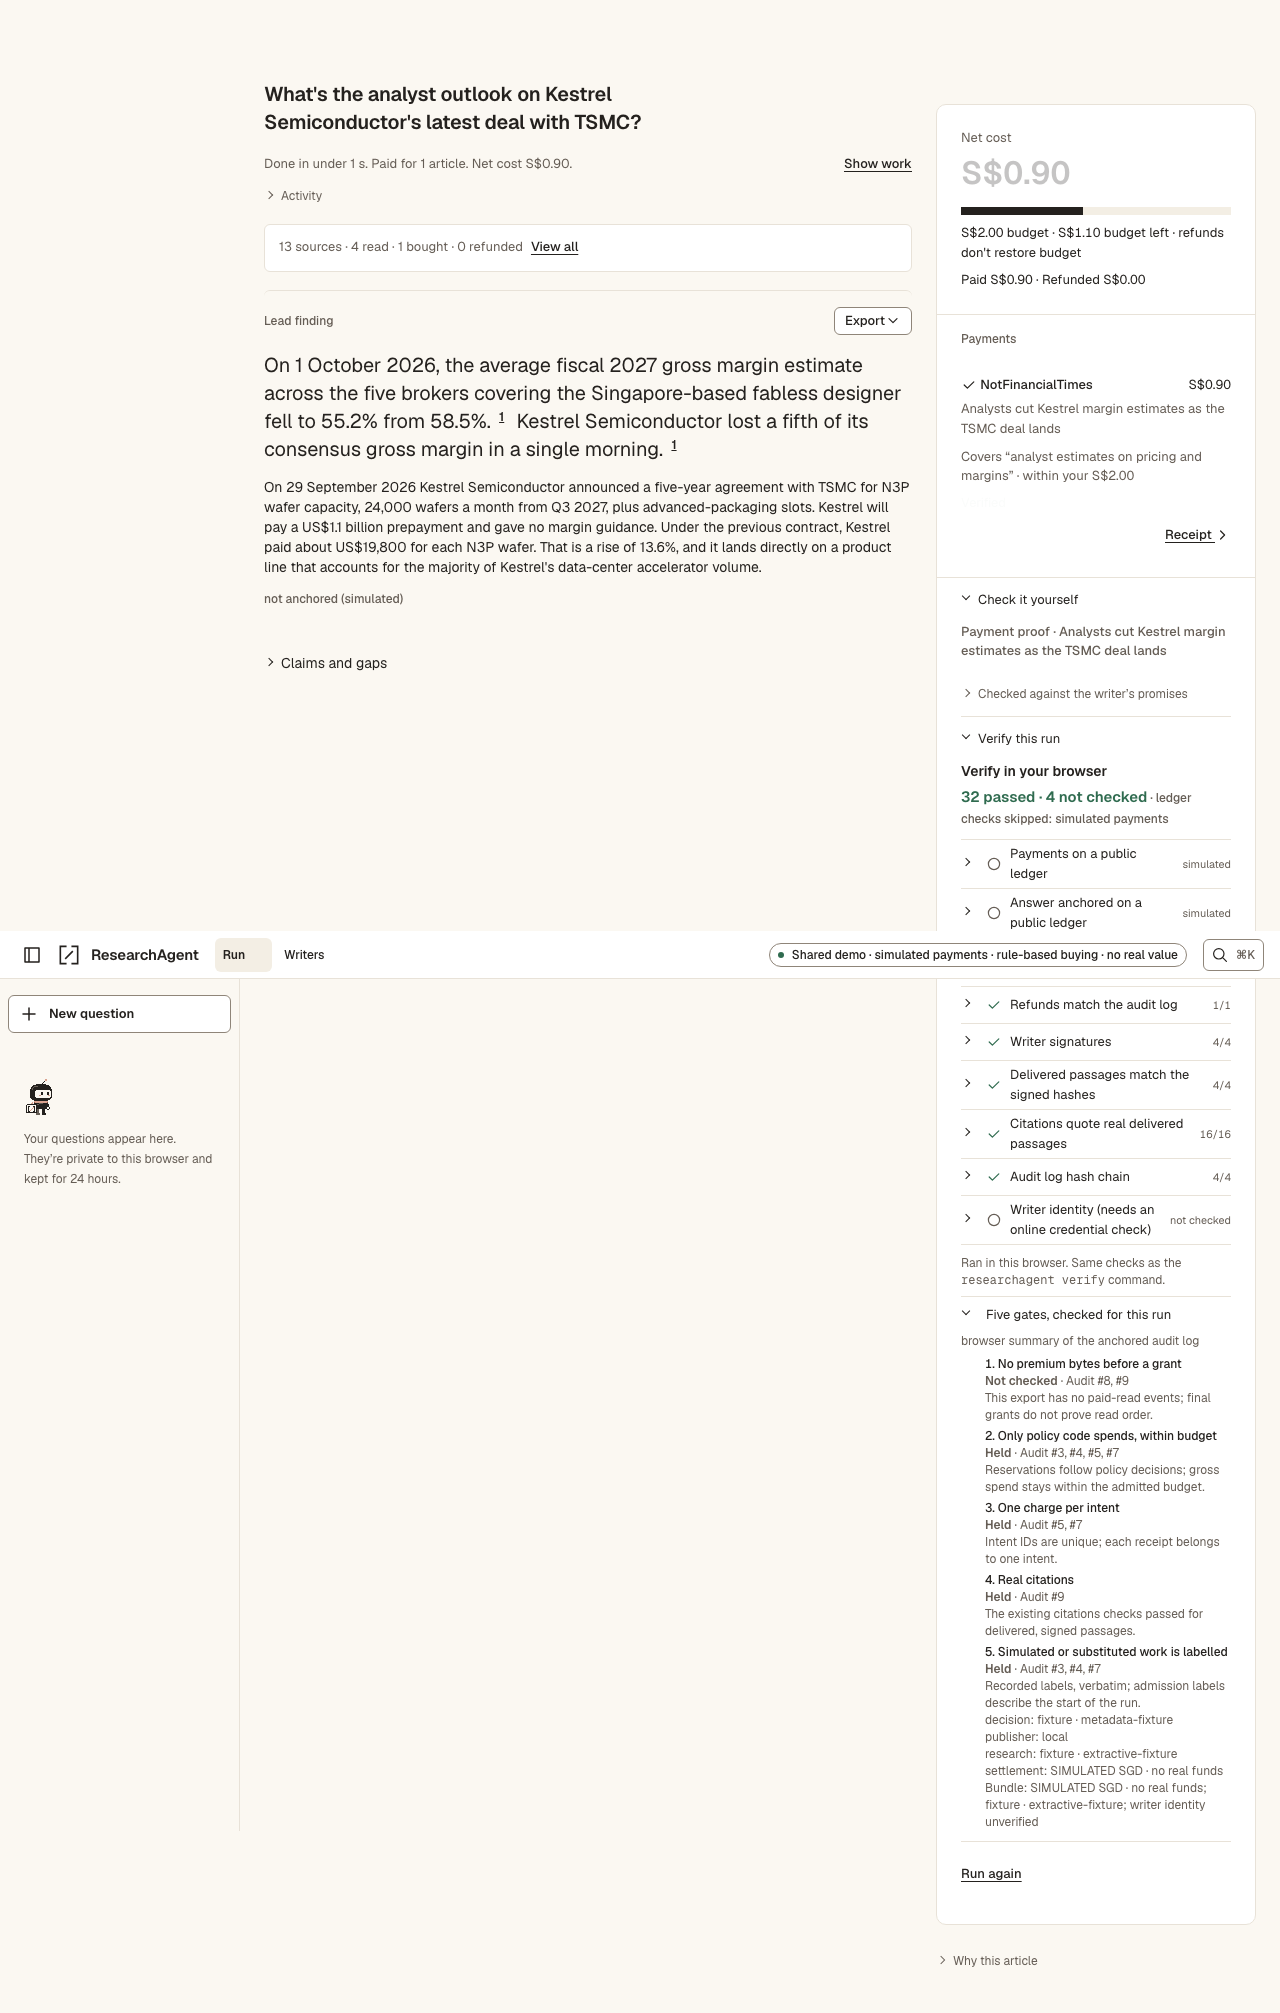
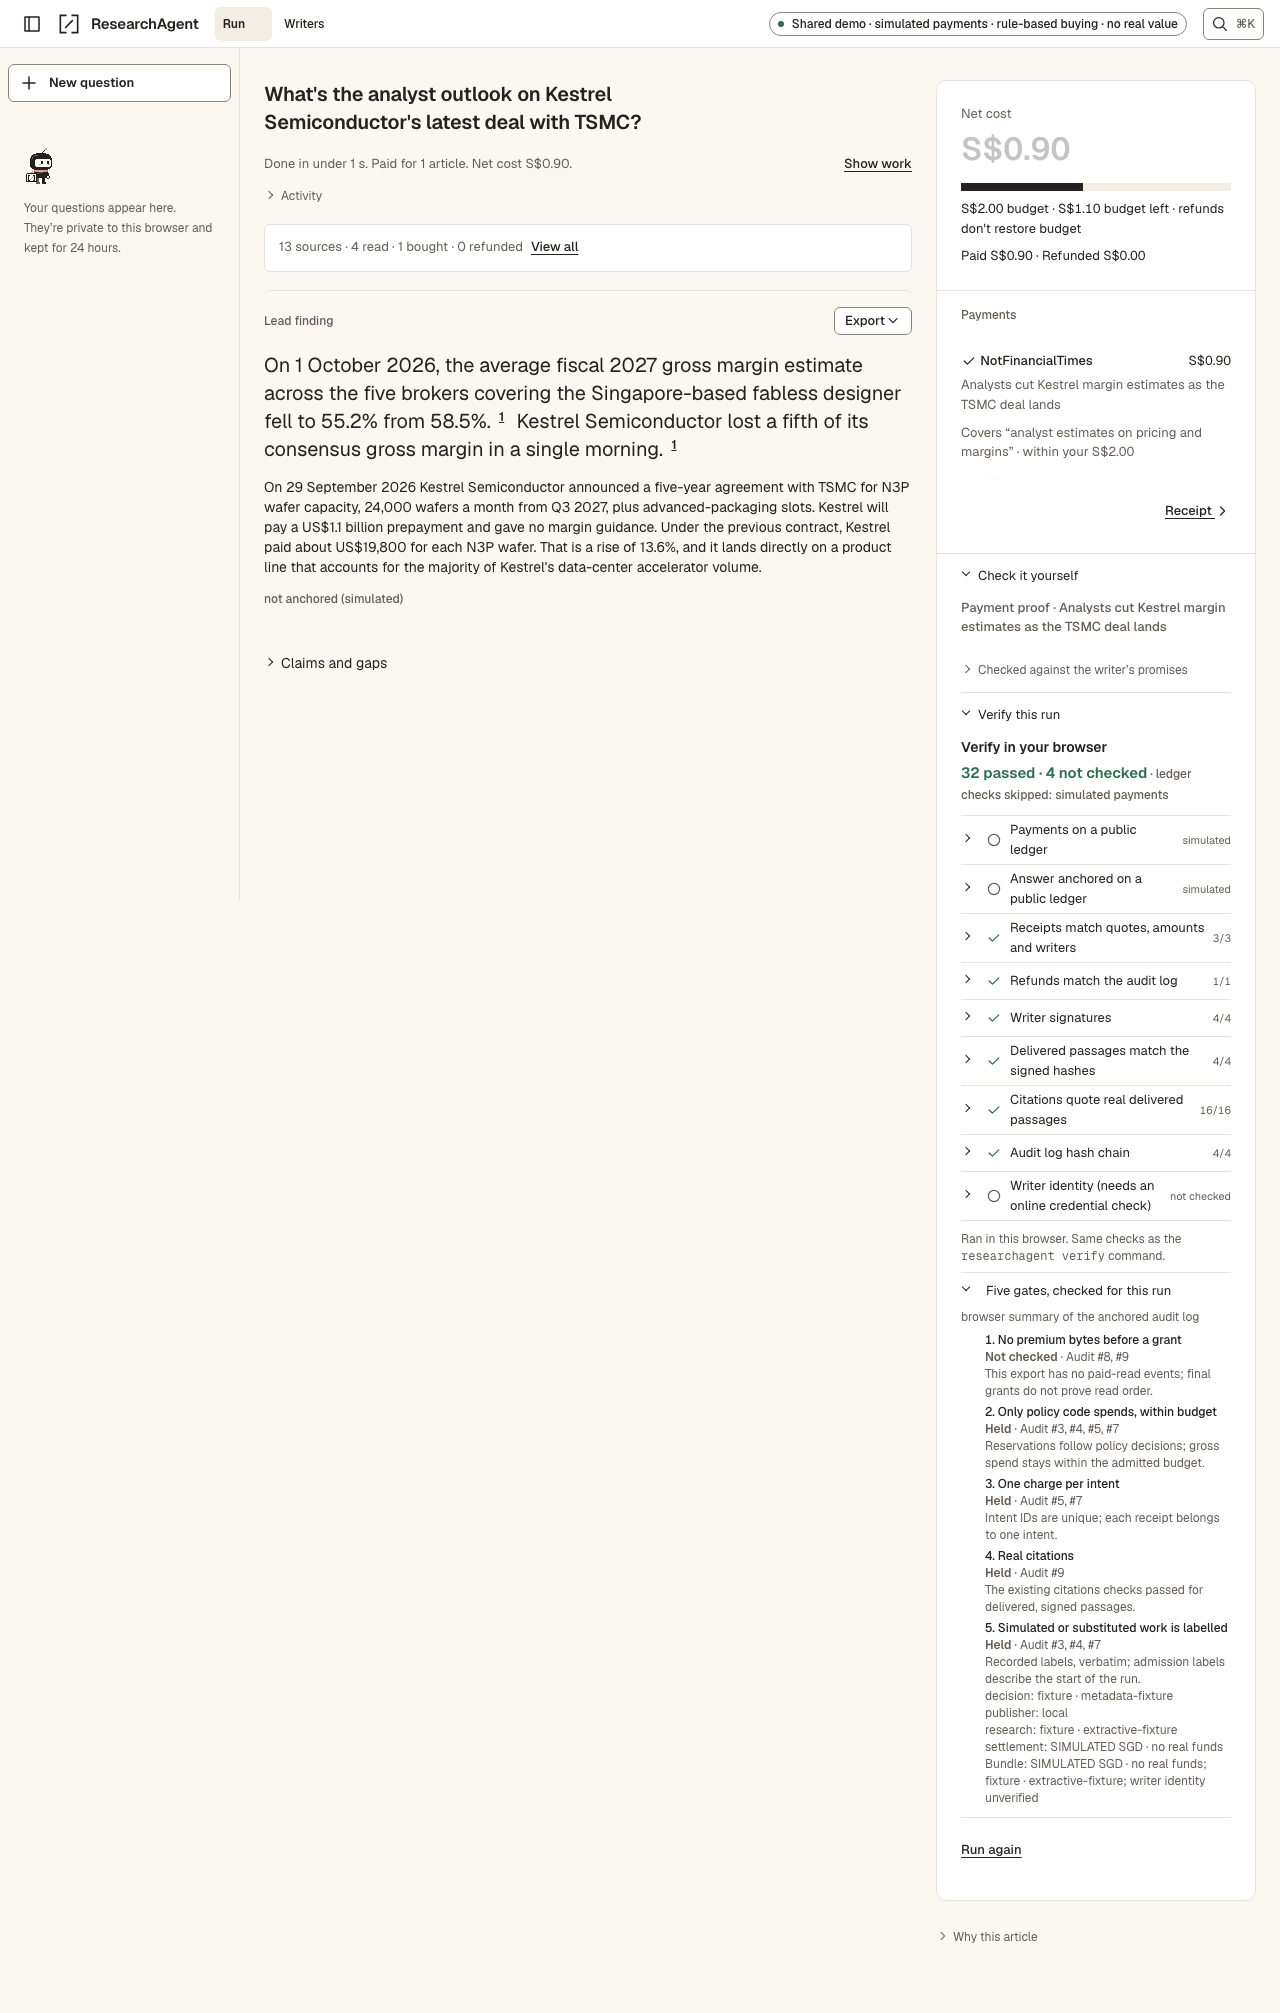
test: capture settled gate summary layouts

diff --git a/tests/verify-gates.spec.ts b/tests/verify-gates.spec.ts
@@ -53,6 +53,11 @@ for (const width of [1280, 390]) test(`lazy summary inside Spend at ${width}`, a
   const violations = (await new AxeBuilder({ page }).analyze()).violations.filter(v => ['serious', 'critical'].includes(v.impact ?? ''))
   expect(violations).toEqual([])
   await gates.scrollIntoViewIfNeeded()
+  await page.evaluate(async () => {
+    await document.fonts.ready
+    await Promise.all(document.getAnimations().filter(a => a.effect?.getComputedTiming().iterations !== Infinity).map(a => a.finished.catch(() => {})))
+  })
+  if (width === 1280) await page.evaluate(() => window.scrollTo(0, 0))
   await page.screenshot({ path: evidencePath(`p5-gates/run-${width}.png`), fullPage: true })
   writeFileSync(evidencePath(`p5-gates/metrics-${width}.json`), JSON.stringify({ width, homeBoxes: 3, runBoxes: width === 390 ? 1 : 2, seriousCritical: violations.length, overflow, initialJsGzip: initialJsGzip().reduce((sum, c) => sum + c.gzip, 0) }, null, 2) + '\n')
 })
